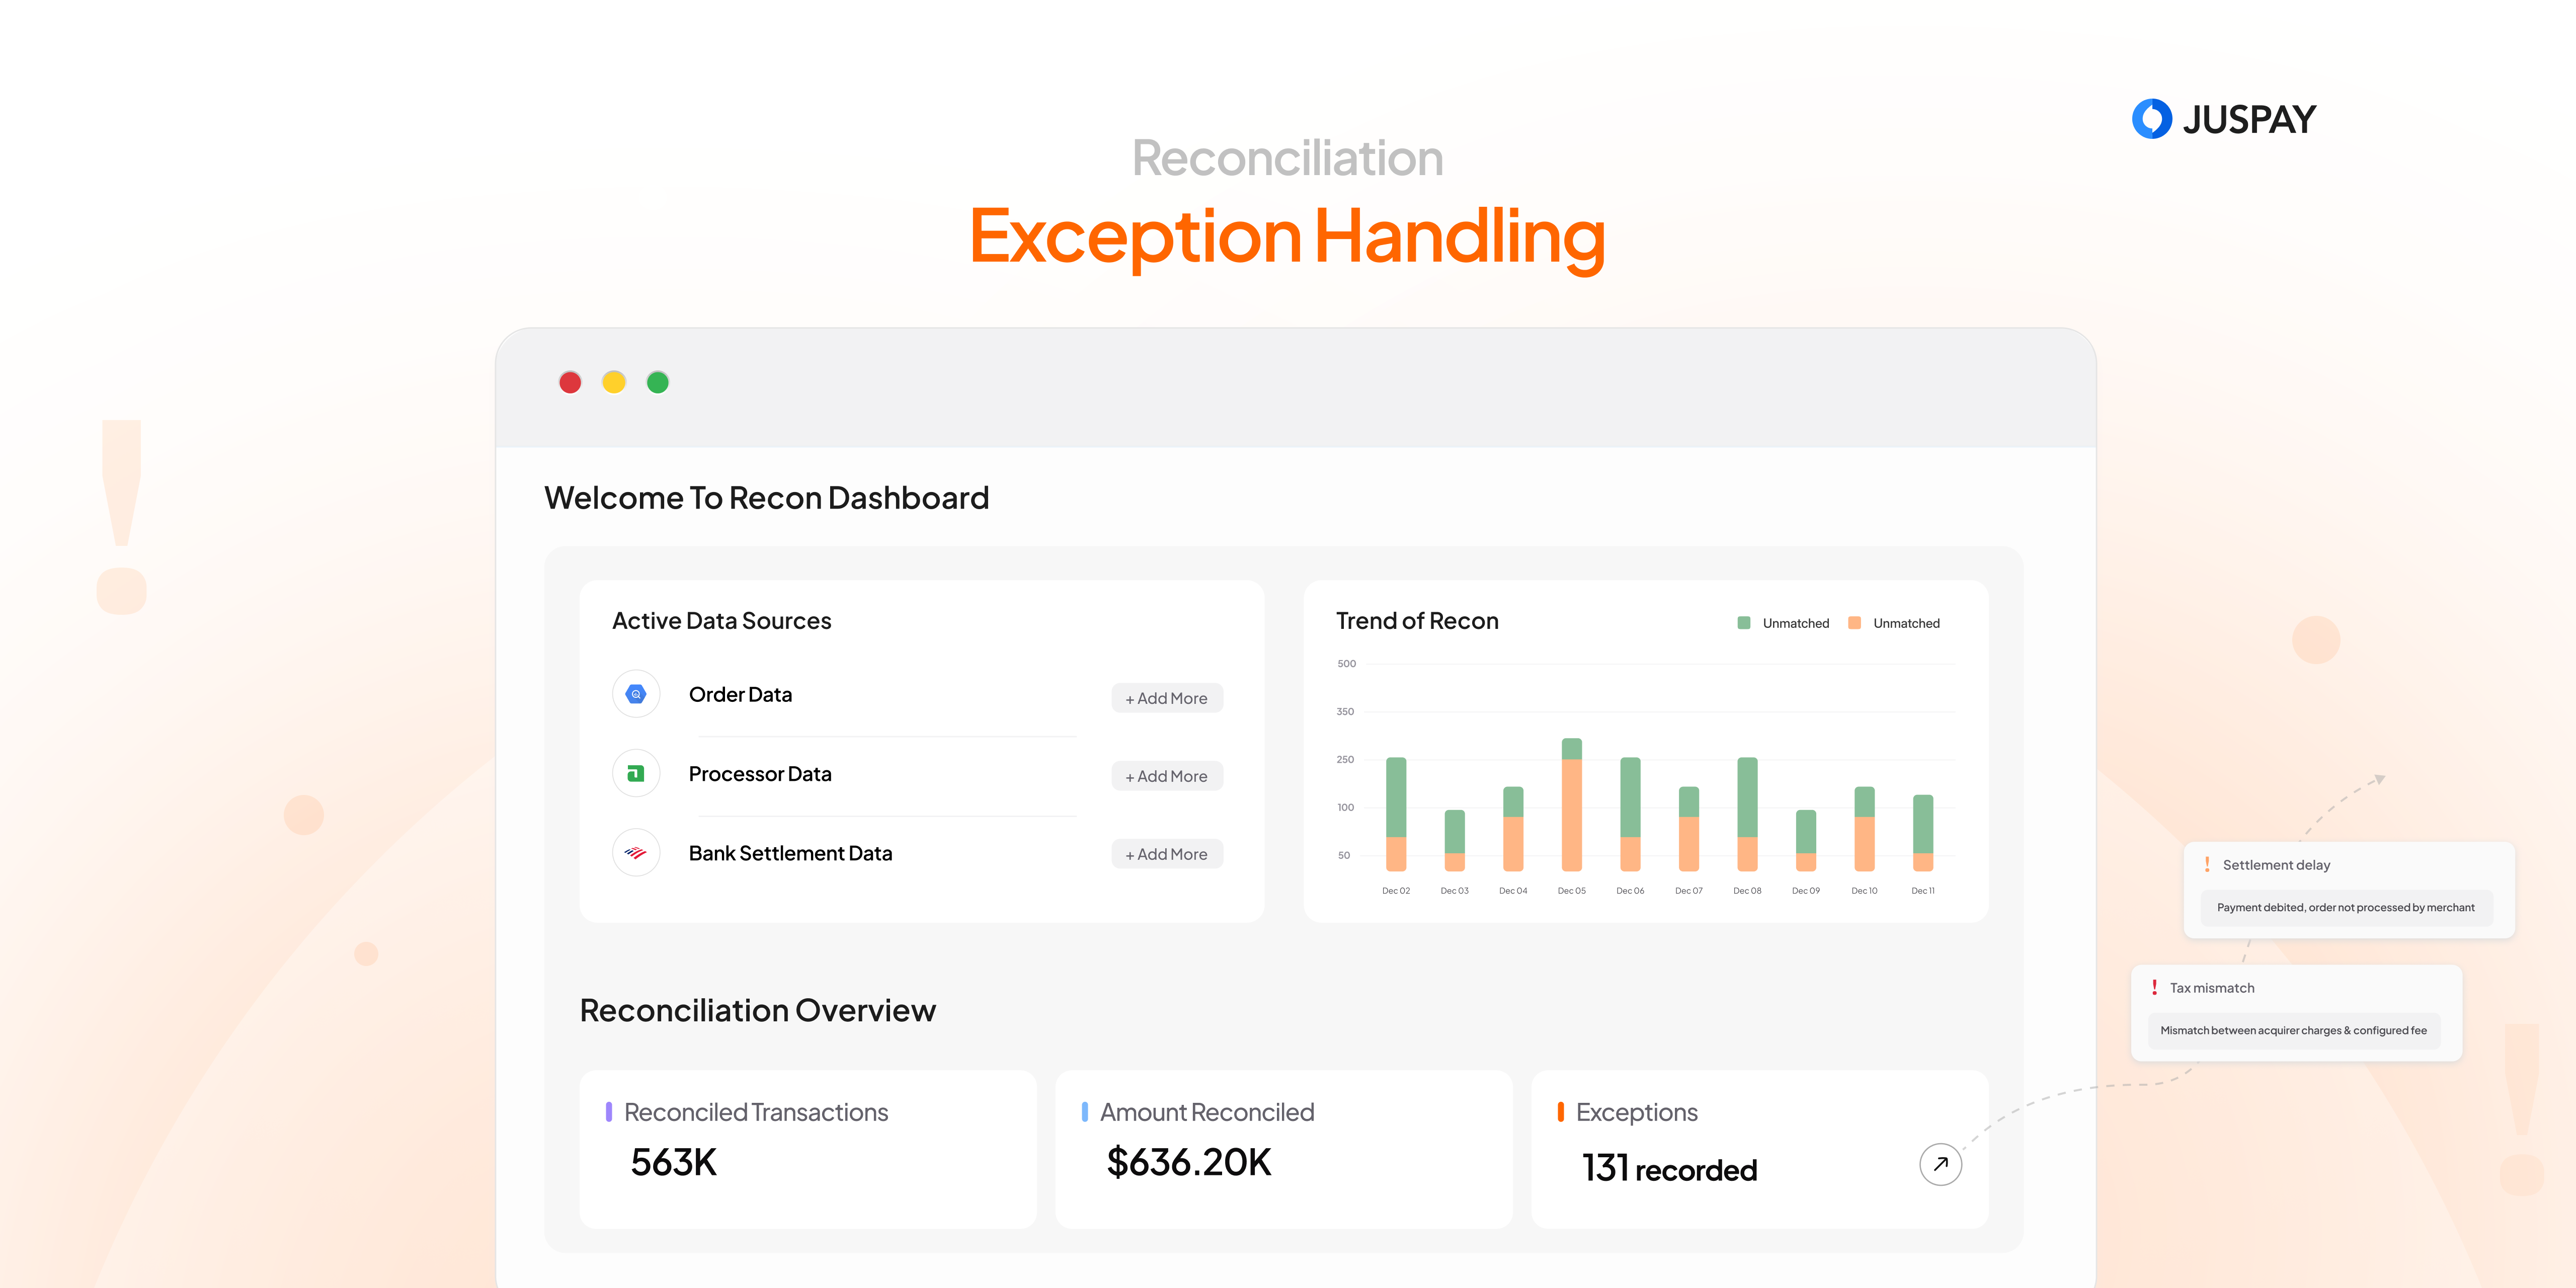
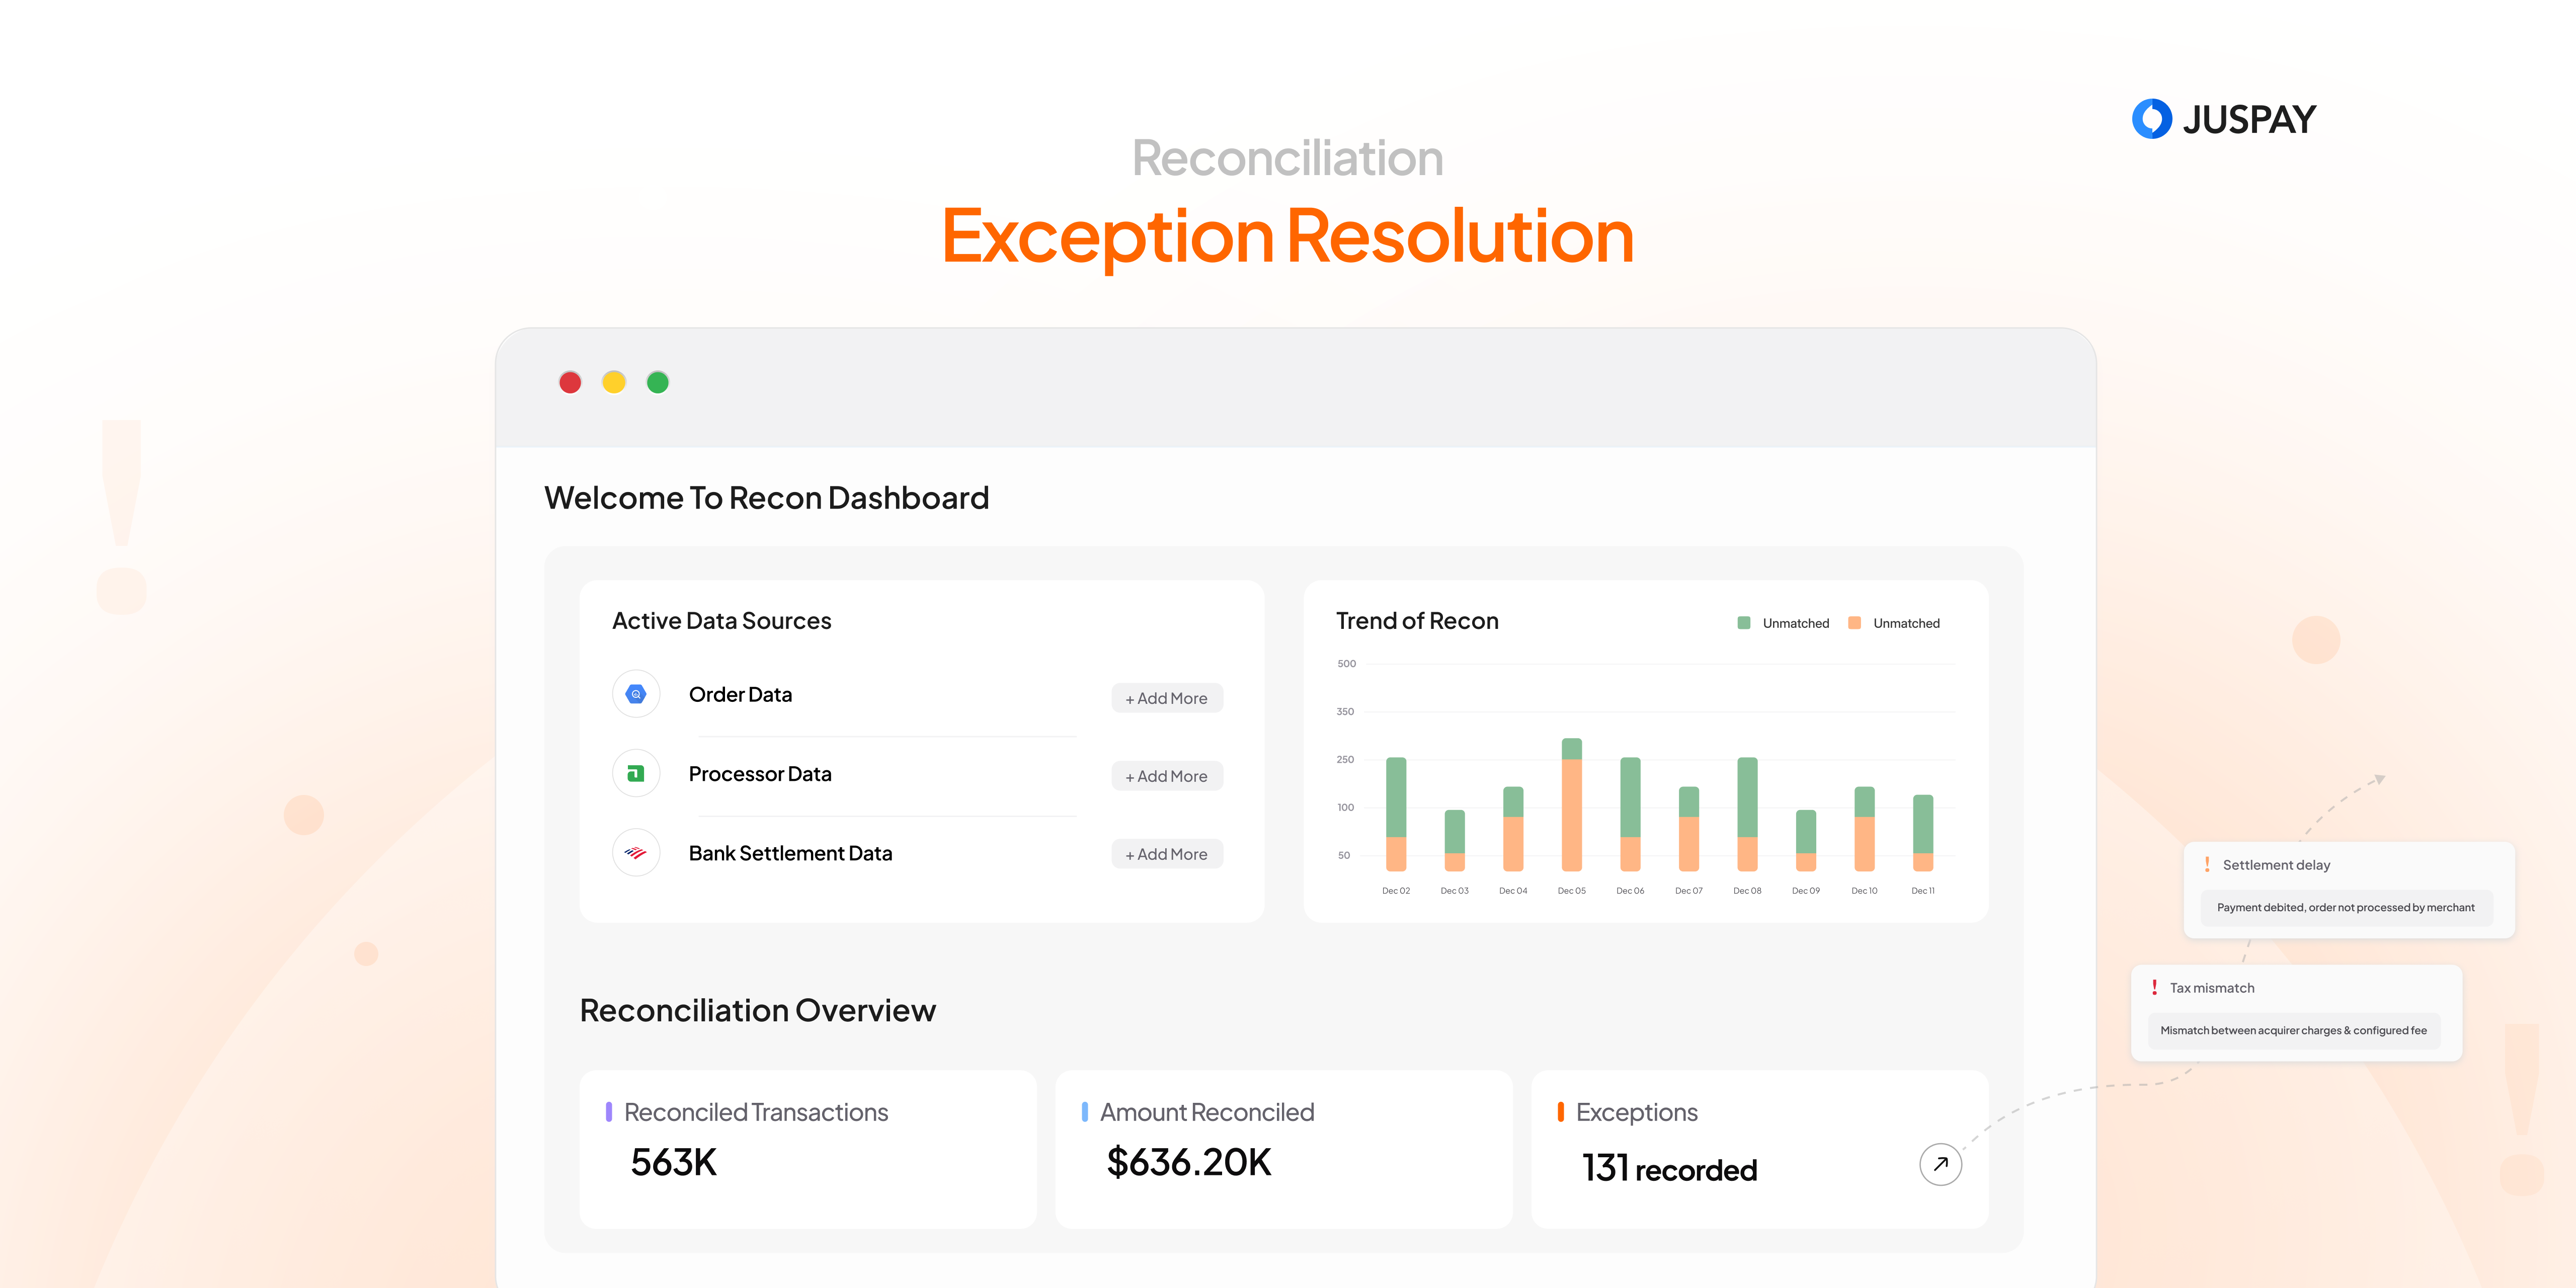
Update about section copy, rename Exception Handling to Exception Resolution, update recon cover

Changed region(s): [[0.3438, 0.1562, 0.625, 0.2188]]

diff --git a/index.html b/index.html
@@ -119,7 +119,7 @@
           </div>
           <div class="wc-title-group">
             <div class="wc-title">Reconciliation</div>
-            <div class="wc-about">Reconciliation Exception Handling</div>
+            <div class="wc-about">Exception Resolution</div>
           </div>
           <div class="wc-brief-field">
             <div class="wc-brief">Designed an exception management platform that simplified the path from investigation to resolution, helping analysts identify, understand, and resolve reconciliation exceptions faster.</div>
@@ -249,9 +249,9 @@
       <div class="act-copy about-prose">
         <h3 class="act-title">Hello, I'm <span class="italic">Akhil.</span></h3>
         <p>I'm a Product Designer at Juspay, where I work on enterprise payment products. My work focuses on simplifying complex workflows and building experiences that help businesses make better decisions.</p>
-        <p>Over the last few years, I've worked across HRMS and fintech, designing experiences for both frontline workers and enterprise teams. While the domains have changed, the challenge has remained the same: making complex systems feel clear, useful, and trustworthy.</p>
-        <p>Looking back, that interest in people and systems is probably what drew me to design in the first place. The transition from Computer Science to design began during my second year of college. What started as curiosity gradually turned into a career and continues to shape how I approach products today.</p>
-        <p>Outside of work, you'll usually find me exploring new places, experimenting with recipes, or learning about how products, businesses, and systems evolve. Lately, that curiosity has also found its way into building things.</p>
+        <p>Over the last few years, I've worked across HRMS and fintech, designing experiences for both frontline workers and enterprise teams. While the domains have changed, the challenge has remained surprisingly similar: making complex systems easier to understand, navigate, and act on.</p>
+        <p>Looking back, many of the things I enjoy about my work today have been shaped through design — the curiosity to explore how things work, the creativity to imagine possibilities, and the discipline to solve problems with clarity and intent.</p>
+        <p>Outside of work, you'll usually find me exploring new places, experimenting with recipes, or learning about how products, businesses, and systems evolve. These days, that curiosity has also extended into building a few things.</p>
       </div>
       <div class="act-visual">
         <div class="about-profile">

diff --git a/work-reconciliation.html b/work-reconciliation.html
@@ -588,12 +588,12 @@ a.cs-cta { margin-top: 28px; }
 
 <!-- ═══════════════════════ HERO ═══════════════════════ -->
 <header class="cs-hero">
-  <div class="cs-hero-eyebrow">Case Study<span class="sep">·</span>Concept Draft<span class="sep">·</span>2025</div>
+  <div class="cs-hero-eyebrow">Case Study<span class="sep">·</span>Financial Operations<span class="sep">·</span>2026</div>
   <h1 class="cs-hero-title">Recon<em>ciliation</em></h1>
   <div class="cs-hero-meta">
     <div class="cs-hero-meta-item"><label>Role</label><span>Product Designer</span></div>
     <div class="cs-hero-meta-item"><label>Company</label><span>Juspay <span class="accent">·</span> Hyperswitch</span></div>
-    <div class="cs-hero-meta-item"><label>Focus</label><span>Exception Handling</span></div>
+    <div class="cs-hero-meta-item"><label>Focus</label><span>Exception Resolution</span></div>
 
   </div>
   <div class="cs-hero-scroll">